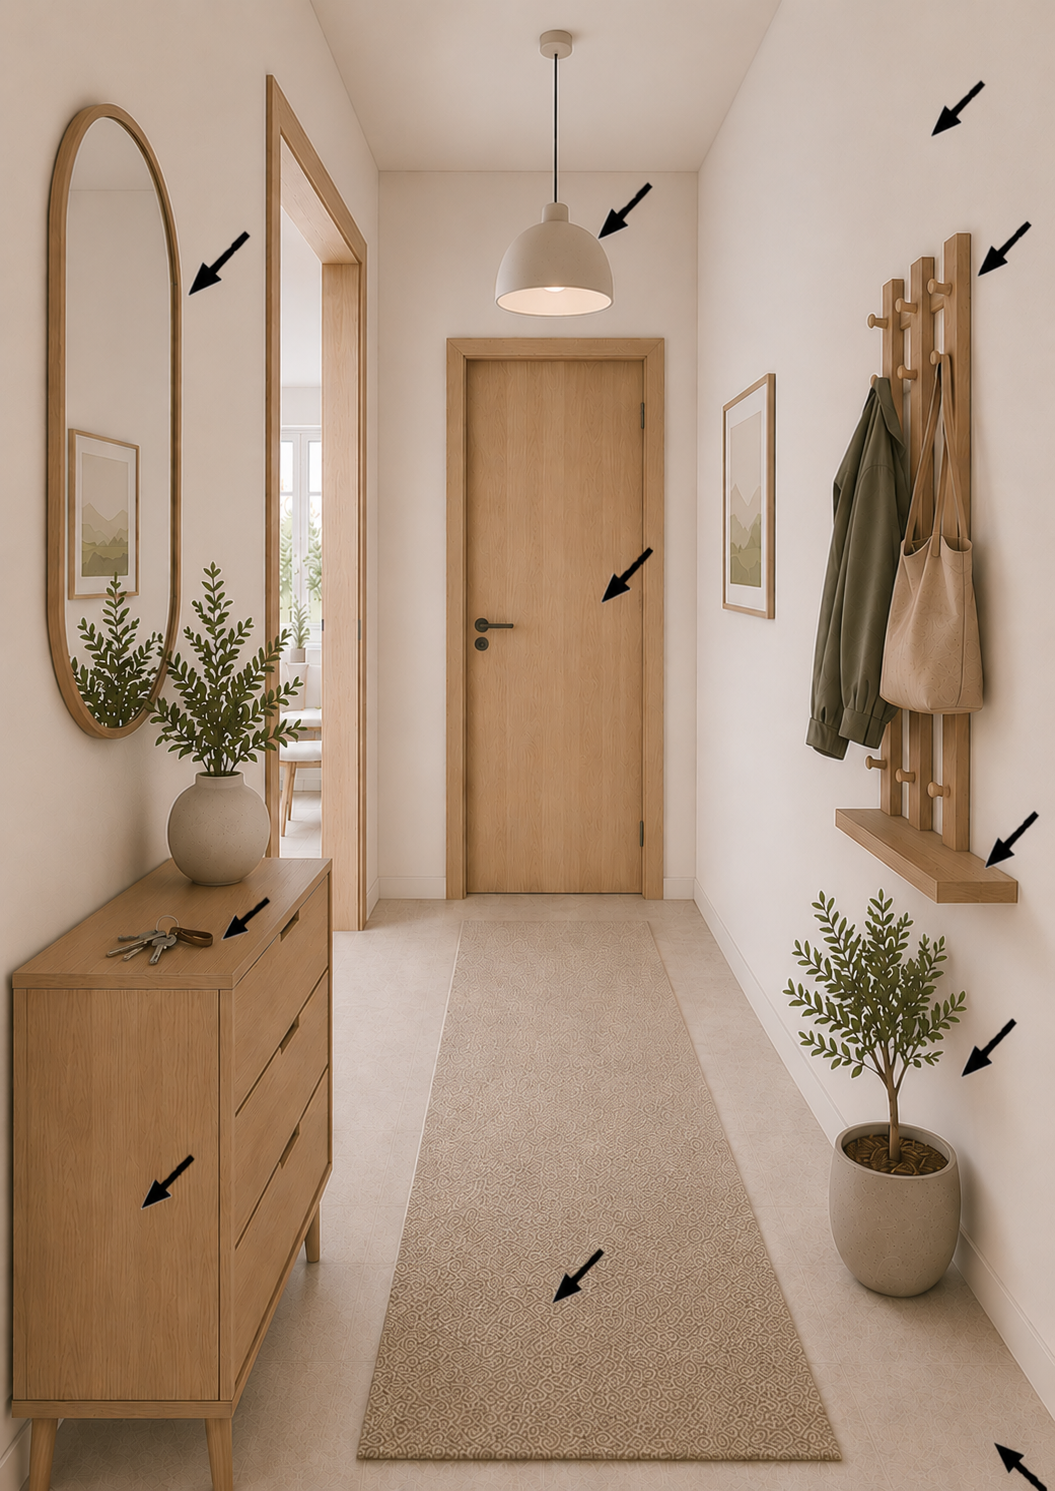
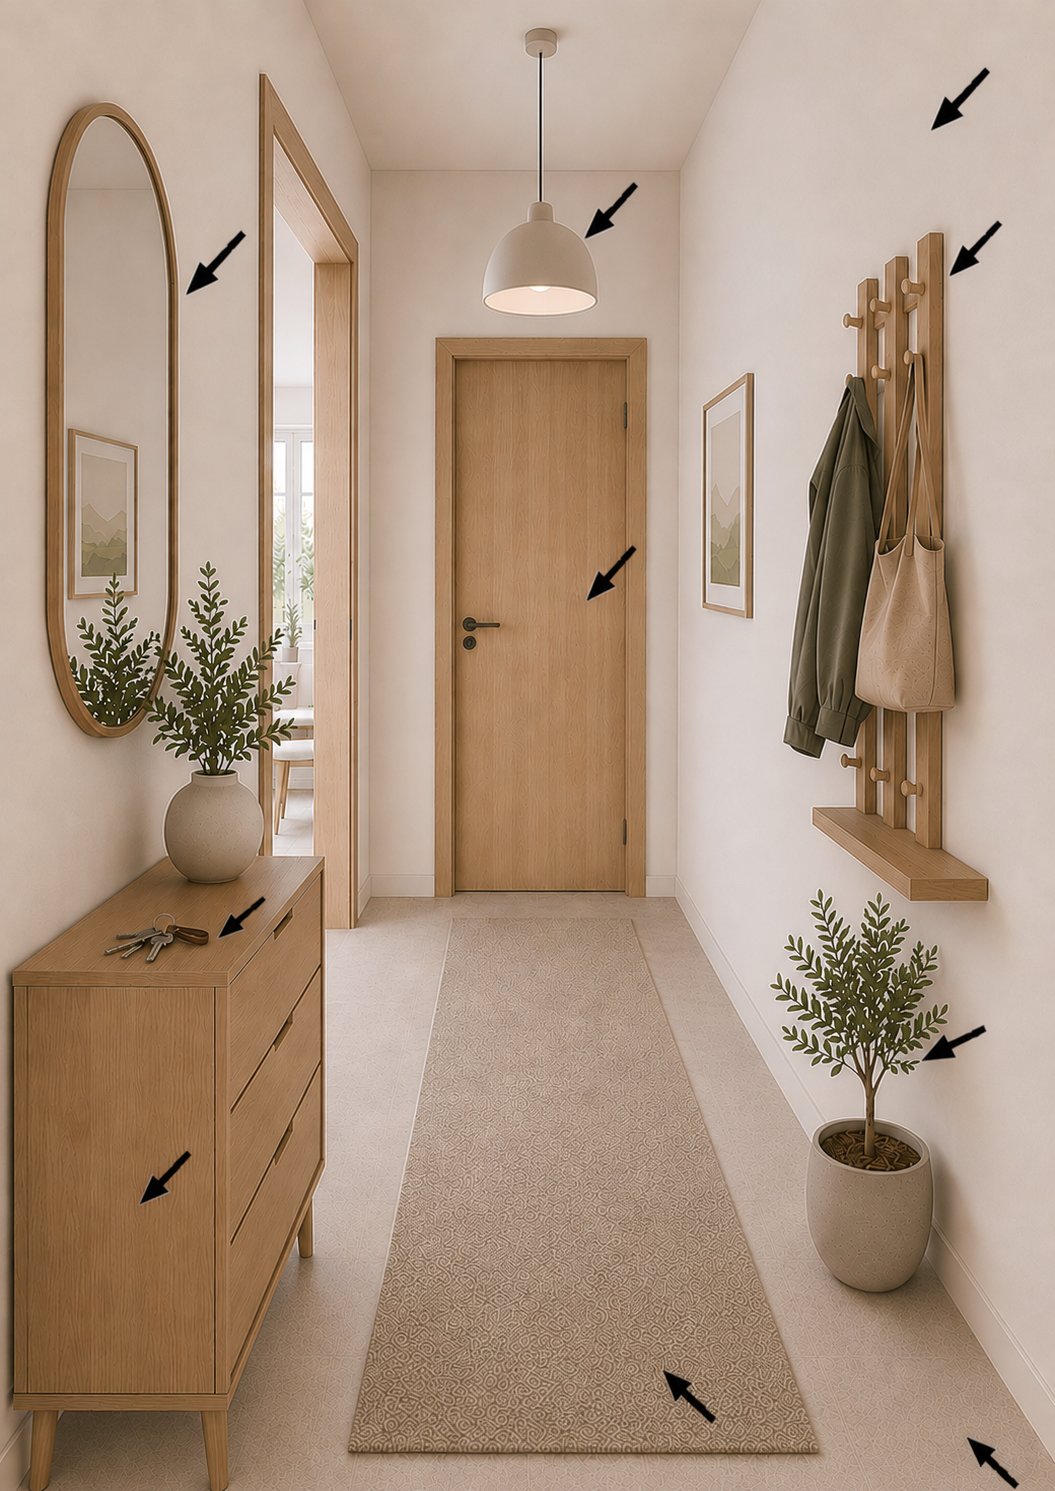
Aktualisiere pasillo1 erneut

diff --git a/bilder-daten.js b/bilder-daten.js
@@ -1190,16 +1190,16 @@ window.APP_FOLDERS = {
         file: "pasillo1.png",
         openLabel: { wort: "el pasillo", labelX: 50, labelY: 9 },
         hotspots: [
-          { wort: "el espejo", clickX: 11.0, clickY: 35.5, labelX: 18.5, labelY: 27.5, areaW: 16, areaH: 28 },
-          { wort: "la pared", clickX: 10.5, clickY: 68.0, labelX: 18.5, labelY: 62.0, areaW: 20, areaH: 20 },
-          { wort: "el suelo", clickX: 20.5, clickY: 92.0, labelX: 15.0, labelY: 84.0, areaW: 18, areaH: 15 },
-          { wort: "la puerta", clickX: 47.0, clickY: 38.5, labelX: 55.0, labelY: 24.0, areaW: 18, areaH: 35 },
-          { wort: "la lámpara", clickX: 59.0, clickY: 11.5, labelX: 67.0, labelY: 8.0, areaW: 13, areaH: 10 },
-          { wort: "el perchero", clickX: 78.5, clickY: 27.5, labelX: 85.5, labelY: 17.5, areaW: 15, areaH: 34 },
-          { wort: "las llaves", clickX: 93.5, clickY: 36.5, labelX: 85.5, labelY: 31.0, areaW: 12, areaH: 13 },
-          { wort: "la planta", clickX: 93.0, clickY: 58.5, labelX: 86.0, labelY: 50.0, areaW: 15, areaH: 19 },
-          { wort: "la cómoda", clickX: 87.5, clickY: 82.5, labelX: 78.5, labelY: 77.0, areaW: 21, areaH: 23 },
-          { wort: "la alfombra", clickX: 58.0, clickY: 92.0, labelX: 66.0, labelY: 86.5, areaW: 34, areaH: 22 }
+          { wort: "el espejo", clickX: 11.5, clickY: 27.5, labelX: 19.0, labelY: 20.0, areaW: 14, areaH: 36 },
+          { wort: "las llaves", clickX: 18.5, clickY: 66.5, labelX: 26.5, labelY: 61.5, areaW: 15, areaH: 11 },
+          { wort: "la cómoda", clickX: 11.0, clickY: 84.0, labelX: 20.0, labelY: 78.0, areaW: 22, areaH: 33 },
+          { wort: "la lámpara", clickX: 56.0, clickY: 13.5, labelX: 64.0, labelY: 9.0, areaW: 14, areaH: 12 },
+          { wort: "la puerta", clickX: 57.0, clickY: 41.0, labelX: 64.5, labelY: 29.0, areaW: 18, areaH: 36 },
+          { wort: "la pared", clickX: 93.0, clickY: 8.0, labelX: 85.0, labelY: 12.0, areaW: 16, areaH: 16 },
+          { wort: "el perchero", clickX: 89.0, clickY: 17.5, labelX: 81.5, labelY: 18.0, areaW: 18, areaH: 34 },
+          { wort: "la planta", clickX: 91.0, clickY: 71.5, labelX: 83.0, labelY: 64.5, areaW: 18, areaH: 23 },
+          { wort: "la alfombra", clickX: 65.0, clickY: 92.0, labelX: 73.0, labelY: 86.5, areaW: 38, areaH: 24 },
+          { wort: "el suelo", clickX: 94.0, clickY: 97.0, labelX: 87.0, labelY: 90.0, areaW: 12, areaH: 10 }
         ]
       },
       {
